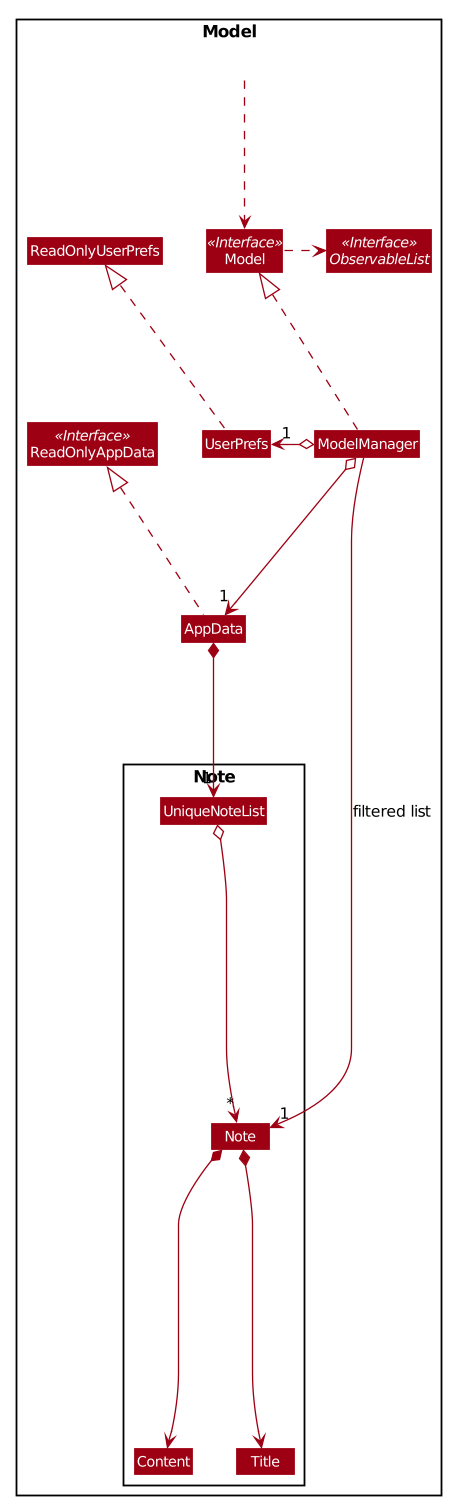
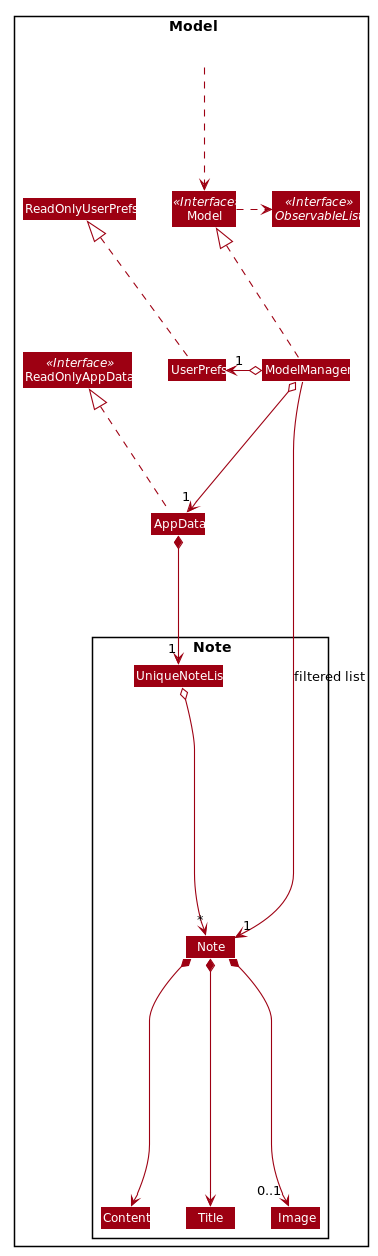
Rebuild pages at f464d8abd7f807f085d1434f8b7bf87172fbfae3

diff --git a/DeveloperGuide.html b/DeveloperGuide.html
@@ -191,12 +191,30 @@ so any data changes are immediately user-visible.</p>
 <div class="sect3">
 <h4 id="implementation-2"><a class="link" href="#implementation-2">3.1.1. Implementation</a></h4>
 <div class="paragraph">
-<p>(Implementation of image support for lecture notes)</p>
+<p>Instead of a custom class to represent an image, JavaFX&#8217;s <code>scene.image.Image</code> is used instead.
+This is out of necessity, since an <code>ImageView</code> is needed to display an image in the GUI and it requires
+an <code>Image</code> object, not just a <code>String</code> path to the image. No significant coupling is introduced
+by this choice because <code>Image</code> objects can exist without a GUI to display them.</p>
+</div>
+<div class="paragraph">
+<p>The dialog brought up to let the user choose a file returns <code>null</code> if the dialog is closed
+<em>without</em> choosing a file (i.e. clicking the close button). Treating <code>null</code> as "no image" would surprise the user who
+decides to edit a lecture note&#8217;s image but then decides not to – the image would simply disappear without
+warning. Therefore the value <code>i/none</code> has to be explicitly provided to remove the image, and <code>EditNoteDescriptor</code>
+has an additional field <code>isImageRemoved</code> to track this. If the image comes out as <code>null</code> but <code>i/none</code> was
+not provided, the image is unchanged.</p>
+</div>
+<div class="paragraph">
+<p>To avoid a dependency of the <code>Logic</code> module on the <code>UI</code> module when selecting an image, there is the interface
+<code>NoteImageSelector</code> exclusive to the <code>parser.note</code> package whose <code>selectImage</code> method provides the necessary image.
+This is possible because <code>FileChooser.showOpenDialog()</code>, which shows the dialog, can be fed an argument of <code>null</code>
+instead of having to rely on a <code>Window</code> object, which is the domain of the <code>UI</code> module.</p>
 </div>
 <div class="imageblock">
 <div class="content">
-<img src="images/UndoRedoState0.png" alt="UndoRedoState0">
+<img src="images/ImageSelectionSequenceDiagram.png" alt="ImageSelectionSequenceDiagram">
 </div>
+<div class="title">Figure 9. Sequence diagram for the execution of <code>EditNoteCommandParser</code></div>
 </div>
 </div>
 <div class="sect3">
@@ -204,7 +222,7 @@ so any data changes are immediately user-visible.</p>
 <div class="ulist">
 <ul>
 <li>
-<p><em>Alternative 1:</em> Images are shown within each lecture note in the first column, and each lecture note
+<p><em>Alternative 1 (current choice):</em> Images are shown within each lecture note in the first column, and each lecture note
 shows all of its title, content and image</p>
 <div class="ulist">
 <ul>
@@ -212,21 +230,23 @@ shows all of its title, content and image</p>
 <p>Pros: Easier to implement (FXML does not have to reach into other places)</p>
 </li>
 <li>
-<p>Cons: Scrolling through lecture notes, all with images, takes time</p>
+<p>Cons: Scrolling through lecture notes, all with images, takes time, but this downside is alleviated
+by the <code>findnote</code> command</p>
 </li>
 </ul>
 </div>
 </li>
 <li>
-<p><em>Alternative 2:</em> Place the images in the second column, below their corresponding title and content.</p>
+<p><em>Alternative 2:</em> Place the images in the second column, below their corresponding title and content</p>
 <div class="ulist">
 <ul>
 <li>
-<p>Pros: More visually appealing, and by keeping just one note in the second column it becomes a
-kind of flash card</p>
+<p>Pros: More visually appealing, since by keeping just one note in the second column it becomes a kind of flash card</p>
 </li>
 <li>
-<p>Cons: Harder to implement (FXML must reach into the object representing the second column)</p>
+<p>Cons: Harder to implement (FXML must reach into the object representing the second column),
+need to have a separate <code>NotePreview</code> JavaFX object since images are only going to be displayed
+in the second column</p>
 </li>
 </ul>
 </div>
@@ -238,7 +258,7 @@ kind of flash card</p>
 <div class="sect2">
 <h3 id="question-management-feature"><a class="link" href="#question-management-feature">3.2. Question management feature</a></h3>
 <div class="sect3">
-<h4 id="current-implementation"><a class="link" href="#current-implementation">3.2.1. Current Implementation</a></h4>
+<h4 id="current-implementation"><a class="link" href="#current-implementation">3.2.1. Current implementation</a></h4>
 <div class="paragraph">
 <p>The question management feature is facilitated by <code>Model</code>.
 The question-related commands extend <code>Command</code> with the question object if necessary.
@@ -308,15 +328,12 @@ question being replaced by the edited question.</p>
 <img src="images/AddQuestionActivityDiagram.png" alt="AddQuestionActivityDiagram">
 </div>
 </div>
-</div>
-<div class="sect3">
-<h4 id="design-considerations"><a class="link" href="#design-considerations">3.2.2. Design Considerations</a></h4>
 <div class="sect4">
-<h5 id="aspect-how-addq-deleteq-editq-commmands-execute"><a class="link" href="#aspect-how-addq-deleteq-editq-commmands-execute">Aspect: How addq/deleteq/editq commmands execute</a></h5>
+<h5 id="design-considerations-how-code-addq-code-code-deleteq-code-code-editq-code-commands-execute"><a class="link" href="#design-considerations-how-code-addq-code-code-deleteq-code-code-editq-code-commands-execute">Design considerations: How <code>addq</code>/<code>deleteq</code>/<code>editq</code> commands execute</a></h5>
 <div class="ulist">
 <ul>
 <li>
-<p><strong>Alternative 1 (current choice):</strong> Update the internal storage <code>UniqueQuestionList</code> in <code>AppData</code> first, then save the updated appData
+<p><em>Alternative 1 (current choice):</em> Update the internal storage <code>UniqueQuestionList</code> in <code>AppData</code> first, then save the updated appData
 in local storage when the command finishes executing.</p>
 <div class="ulist">
 <ul>
@@ -330,7 +347,7 @@ in local storage when the command finishes executing.</p>
 </div>
 </li>
 <li>
-<p><strong>Alternative 2:</strong> Update the local storage directly when the command is executing.</p>
+<p><em>Alternative 2:</em> Update the local storage directly when the command is executing.</p>
 <div class="ulist">
 <ul>
 <li>
@@ -346,11 +363,11 @@ in local storage when the command finishes executing.</p>
 </div>
 </div>
 <div class="sect4">
-<h5 id="aspect-data-structure-to-support-the-question-commands"><a class="link" href="#aspect-data-structure-to-support-the-question-commands">Aspect: Data structure to support the question commands</a></h5>
+<h5 id="design-considerations-data-structure-to-support-the-question-commands"><a class="link" href="#design-considerations-data-structure-to-support-the-question-commands">Design considerations: Data structure to support the question commands</a></h5>
 <div class="ulist">
 <ul>
 <li>
-<p><strong>Alternative 1 (current choice):</strong> Use a <code>UniqueQuestionList</code> to store questions in <code>AppData</code>.</p>
+<p><em>Alternative 1 (current choice):</em> Use a <code>UniqueQuestionList</code> to store questions in <code>AppData</code>.</p>
 <div class="ulist">
 <ul>
 <li>
@@ -363,7 +380,7 @@ in local storage when the command finishes executing.</p>
 </div>
 </li>
 <li>
-<p><strong>Alternative 2:</strong> Use Java list to store the questions.</p>
+<p><em>Alternative 2:</em> Use Java list to store the questions.</p>
 <div class="ulist">
 <ul>
 <li>
@@ -459,7 +476,7 @@ of the answer.</p>
 </div>
 </div>
 <div class="sect3">
-<h4 id="design-considerations-2"><a class="link" href="#design-considerations-2">3.3.2. Design Considerations</a></h4>
+<h4 id="design-considerations"><a class="link" href="#design-considerations">3.3.2. Design Considerations</a></h4>
 <div class="sect4">
 <h5 id="aspect-how-to-store-the-quiz-results"><a class="link" href="#aspect-how-to-store-the-quiz-results">Aspect: How to store the quiz results</a></h5>
 <div class="ulist">
@@ -597,7 +614,7 @@ The statistics panel will now be hidden.</p>
 </div>
 </div>
 <div class="sect3">
-<h4 id="design-considerations-3"><a class="link" href="#design-considerations-3">3.4.2. Design Considerations</a></h4>
+<h4 id="design-considerations-2"><a class="link" href="#design-considerations-2">3.4.2. Design Considerations</a></h4>
 <div class="sect4">
 <h5 id="aspect-how-statistics-are-shown"><a class="link" href="#aspect-how-statistics-are-shown">Aspect: How statistics are shown</a></h5>
 <div class="ulist">
@@ -656,7 +673,7 @@ exposed to <code>AppData#addTask(Task)</code>.</p>
 </div>
 </div>
 <div class="sect3">
-<h4 id="design-considerations-4"><a class="link" href="#design-considerations-4">3.5.2. Design considerations</a></h4>
+<h4 id="design-considerations-3"><a class="link" href="#design-considerations-3">3.5.2. Design considerations</a></h4>
 <div class="sect4">
 <h5 id="aspect-design-of-code-task-code"><a class="link" href="#aspect-design-of-code-task-code">Aspect: Design of <code>Task</code></a></h5>
 <div class="ulist">
@@ -1114,7 +1131,7 @@ compared to a typical note-taking app</p>
 <div class="ulist none">
 <ul class="none">
 <li>
-<p>1a1. Application brings up a file selection dialogue</p>
+<p>1a1. Application brings up a file selection dialog</p>
 </li>
 <li>
 <p>1a2. Student selects the image they wish to include in the lecture note</p>
@@ -1977,4 +1994,4 @@ Expected: Similar to previous.</p>
 </div>
 </div>
 </div>
-</div></div><div id="footer"><div class="container"><div id="footer-text">Last updated 2019-10-22 14:16:18 UTC</div></div></div></body></html>
+</div></div><div id="footer"><div class="container"><div id="footer-text">Last updated 2019-10-22 17:16:53 UTC</div></div></div></body></html>

diff --git a/team/PortfolioParclyTaxel.html b/team/PortfolioParclyTaxel.html
@@ -55,9 +55,6 @@ lecture notes. This helped my teammates add their own features, setting an examp
 </div>
 </li>
 <li>
-<p>Minor enhancements, enhancements to existing features: <em>fill in here</em></p>
-</li>
-<li>
 <p>I enforced a style for the user and developer guides and wrote several of their key sections,
 such as the user guide&#8217;s introduction and the developer guide&#8217;s non-functional requirements.
 See <a href="https://github.com/AY1920S1-CS2103T-F11-4/main/pull/21">#21</a> and <a href="https://github.com/AY1920S1-CS2103T-F11-4/main/pull/22">#22</a>
@@ -124,11 +121,13 @@ Format: <code>addnote t/TITLE c/CONTENT [i/]</code></p>
 <h4 id="editing-lecture-notes-code-editnote-code"><a class="link" href="#editing-lecture-notes-code-editnote-code">Editing lecture notes: <code>editnote</code></a></h4>
 <div class="paragraph">
 <p>Edits an existing lecture note. Providing <code>i/</code> brings up the image selection dialogue, like <code>addnote</code>;
-this can be used to change the image. At least one of <code>t/</code>, <code>c/</code> and <code>i/</code> must be provided.</p>
+this can be used to change the image. At least one of <code>t/</code>, <code>c/</code> and <code>i/</code> must be provided,
+or <code>i/</code> must have the argument <code>none</code> to remove the image. If the image dialogue is closed
+without selecting an image, the image remains unchanged.</p>
 </div>
 <div class="paragraph">
-<p>The index must be between 1 and the number of notes and flashcards combined, inclusive.<br>
-Format: <code>editnote INDEX [t/TITLE] [c/CONTENT] [i/]</code></p>
+<p>The index must be between 1 and the number of notes inclusive.<br>
+Format: <code>editnote INDEX [t/TITLE] [c/CONTENT] [i/[none]]</code></p>
 </div>
 </div>
 <div class="sect3">
@@ -190,12 +189,30 @@ I contributed in code and my proficiency in using diagrams to explain my work.</
 <div class="sect3">
 <h4 id="implementation"><a class="link" href="#implementation">Implementation</a></h4>
 <div class="paragraph">
-<p>(Implementation of image support for lecture notes)</p>
+<p>Instead of a custom class to represent an image, JavaFX&#8217;s <code>scene.image.Image</code> is used instead.
+This is out of necessity, since an <code>ImageView</code> is needed to display an image in the GUI and it requires
+an <code>Image</code> object, not just a <code>String</code> path to the image. No significant coupling is introduced
+by this choice because <code>Image</code> objects can exist without a GUI to display them.</p>
+</div>
+<div class="paragraph">
+<p>The dialog brought up to let the user choose a file returns <code>null</code> if the dialog is closed
+<em>without</em> choosing a file (i.e. clicking the close button). Treating <code>null</code> as "no image" would surprise the user who
+decides to edit a lecture note&#8217;s image but then decides not to – the image would simply disappear without
+warning. Therefore the value <code>i/none</code> has to be explicitly provided to remove the image, and <code>EditNoteDescriptor</code>
+has an additional field <code>isImageRemoved</code> to track this. If the image comes out as <code>null</code> but <code>i/none</code> was
+not provided, the image is unchanged.</p>
+</div>
+<div class="paragraph">
+<p>To avoid a dependency of the <code>Logic</code> module on the <code>UI</code> module when selecting an image, there is the interface
+<code>NoteImageSelector</code> exclusive to the <code>parser.note</code> package whose <code>selectImage</code> method provides the necessary image.
+This is possible because <code>FileChooser.showOpenDialog()</code>, which shows the dialog, can be fed an argument of <code>null</code>
+instead of having to rely on a <code>Window</code> object, which is the domain of the <code>UI</code> module.</p>
 </div>
 <div class="imageblock">
 <div class="content">
-<img src="../images/UndoRedoState0.png" alt="UndoRedoState0">
+<img src="../images/ImageSelectionSequenceDiagram.png" alt="ImageSelectionSequenceDiagram">
 </div>
+<div class="title">Figure 1. Sequence diagram for the execution of <code>EditNoteCommandParser</code></div>
 </div>
 </div>
 <div class="sect3">
@@ -203,7 +220,7 @@ I contributed in code and my proficiency in using diagrams to explain my work.</
 <div class="ulist">
 <ul>
 <li>
-<p><em>Alternative 1:</em> Images are shown within each lecture note in the first column, and each lecture note
+<p><em>Alternative 1 (current choice):</em> Images are shown within each lecture note in the first column, and each lecture note
 shows all of its title, content and image</p>
 <div class="ulist">
 <ul>
@@ -211,21 +228,23 @@ shows all of its title, content and image</p>
 <p>Pros: Easier to implement (FXML does not have to reach into other places)</p>
 </li>
 <li>
-<p>Cons: Scrolling through lecture notes, all with images, takes time</p>
+<p>Cons: Scrolling through lecture notes, all with images, takes time, but this downside is alleviated
+by the <code>findnote</code> command</p>
 </li>
 </ul>
 </div>
 </li>
 <li>
-<p><em>Alternative 2:</em> Place the images in the second column, below their corresponding title and content.</p>
+<p><em>Alternative 2:</em> Place the images in the second column, below their corresponding title and content</p>
 <div class="ulist">
 <ul>
 <li>
-<p>Pros: More visually appealing, and by keeping just one note in the second column it becomes a
-kind of flash card</p>
+<p>Pros: More visually appealing, since by keeping just one note in the second column it becomes a kind of flash card</p>
 </li>
 <li>
-<p>Cons: Harder to implement (FXML must reach into the object representing the second column)</p>
+<p>Cons: Harder to implement (FXML must reach into the object representing the second column),
+need to have a separate <code>NotePreview</code> JavaFX object since images are only going to be displayed
+in the second column</p>
 </li>
 </ul>
 </div>
@@ -263,7 +282,7 @@ kind of flash card</p>
 <div class="ulist none">
 <ul class="none">
 <li>
-<p>1a1. Application brings up a file selection dialogue</p>
+<p>1a1. Application brings up a file selection dialog</p>
 </li>
 <li>
 <p>1a2. Student selects the image they wish to include in the lecture note</p>
@@ -377,4 +396,4 @@ It is not quizzable.</p>
 </dl>
 </div>
 </div>
-</div></div><div id="footer"><div class="container"><div id="footer-text">Last updated 2019-10-22 14:16:18 UTC</div></div></div></body></html>
+</div></div><div id="footer"><div class="container"><div id="footer-text">Last updated 2019-10-22 17:16:53 UTC</div></div></div></body></html>

diff --git a/UserGuide.html b/UserGuide.html
@@ -104,11 +104,13 @@ Format: <code>addnote t/TITLE c/CONTENT [i/]</code></p>
 <h4 id="editing-lecture-notes-code-editnote-code"><a class="link" href="#editing-lecture-notes-code-editnote-code">3.1.2. Editing lecture notes: <code>editnote</code></a></h4>
 <div class="paragraph">
 <p>Edits an existing lecture note. Providing <code>i/</code> brings up the image selection dialogue, like <code>addnote</code>;
-this can be used to change the image. At least one of <code>t/</code>, <code>c/</code> and <code>i/</code> must be provided.</p>
+this can be used to change the image. At least one of <code>t/</code>, <code>c/</code> and <code>i/</code> must be provided,
+or <code>i/</code> must have the argument <code>none</code> to remove the image. If the image dialogue is closed
+without selecting an image, the image remains unchanged.</p>
 </div>
 <div class="paragraph">
-<p>The index must be between 1 and the number of notes and flashcards combined, inclusive.<br>
-Format: <code>editnote INDEX [t/TITLE] [c/CONTENT] [i/]</code></p>
+<p>The index must be between 1 and the number of notes inclusive.<br>
+Format: <code>editnote INDEX [t/TITLE] [c/CONTENT] [i/[none]]</code></p>
 </div>
 </div>
 <div class="sect3">
@@ -467,4 +469,4 @@ Format: <code>rndone</code></p>
 <strong>A</strong>: Install the app in the other computer and overwrite the empty data file it creates with the file that contains the data of your previous Address Book folder.</p>
 </div>
 </div>
-</div></div><div id="footer"><div class="container"><div id="footer-text">Last updated 2019-10-22 14:16:18 UTC</div></div></div></body></html>
+</div></div><div id="footer"><div class="container"><div id="footer-text">Last updated 2019-10-22 17:16:53 UTC</div></div></div></body></html>

diff --git a/Testing.html b/Testing.html
@@ -90,4 +90,4 @@ e.g. <code>seedu.address.logic.LogicManagerTest</code></p>
 <div class="title">Figure 1. <code>Accessibility</code> permission is granted to <code>IntelliJ IDEA</code></div>
 </div>
 </div>
-</div></div><div id="footer"><div class="container"><div id="footer-text">Last updated 2019-10-22 14:16:18 UTC</div></div></div></body></html>
+</div></div><div id="footer"><div class="container"><div id="footer-text">Last updated 2019-10-22 17:16:53 UTC</div></div></div></body></html>

diff --git a/DevOps.html b/DevOps.html
@@ -57,4 +57,4 @@ this project depends on the <a href="https://github.com/FasterXML/jackson">Jacks
 for JSON parsing. Managing these dependencies can be automated using Gradle.</p>
 </div>
 </div>
-</div></div><div id="footer"><div class="container"><div id="footer-text">Last updated 2019-10-22 14:16:18 UTC</div></div></div></body></html>
+</div></div><div id="footer"><div class="container"><div id="footer-text">Last updated 2019-10-22 17:16:53 UTC</div></div></div></body></html>

diff --git a/SettingUp.html b/SettingUp.html
@@ -131,4 +131,4 @@ Do not disable them. If you have disabled them, go to <code>File</code> &gt; <co
 </div>
 </div>
 </div>
-</div></div><div id="footer"><div class="container"><div id="footer-text">Last updated 2019-10-22 14:16:18 UTC</div></div></div></body></html>
+</div></div><div id="footer"><div class="container"><div id="footer-text">Last updated 2019-10-22 17:16:53 UTC</div></div></div></body></html>

diff --git a/UsingGradle.html b/UsingGradle.html
@@ -228,4 +228,4 @@ See <code>build.gradle</code> &#8594; <code>allprojects</code> &#8594; <code>dep
 </ul>
 </div>
 </div>
-</div></div><div id="footer"><div class="container"><div id="footer-text">Last updated 2019-10-22 14:16:18 UTC</div></div></div></body></html>
+</div></div><div id="footer"><div class="container"><div id="footer-text">Last updated 2019-10-22 17:16:53 UTC</div></div></div></body></html>

diff --git a/UsingNetlify.html b/UsingNetlify.html
@@ -123,4 +123,4 @@ The publish directory is the directory in which the built HTML documentation res
 </ol>
 </div>
 </div>
-</div></div><div id="footer"><div class="container"><div id="footer-text">Last updated 2019-10-22 14:16:18 UTC</div></div></div></body></html>
+</div></div><div id="footer"><div class="container"><div id="footer-text">Last updated 2019-10-22 17:16:53 UTC</div></div></div></body></html>

diff --git a/AboutUs.html b/AboutUs.html
@@ -94,4 +94,4 @@ Responsibilities: Implementing <code>Question</code> module and the test feature
 <hr>
 </div>
 </div>
-</div></div><div id="footer"><div class="container"><div id="footer-text">Last updated 2019-10-22 14:16:18 UTC</div></div></div></body></html>
+</div></div><div id="footer"><div class="container"><div id="footer-text">Last updated 2019-10-22 17:16:53 UTC</div></div></div></body></html>

diff --git a/Documentation.html b/Documentation.html
@@ -223,4 +223,4 @@ The SE-EDU team does not provide support for modified template files.</p>
 </table>
 </div>
 </div>
-</div></div><div id="footer"><div class="container"><div id="footer-text">Last updated 2019-10-22 14:16:18 UTC</div></div></div></body></html>
+</div></div><div id="footer"><div class="container"><div id="footer-text">Last updated 2019-10-22 17:16:53 UTC</div></div></div></body></html>

diff --git a/UsingTravis.html b/UsingTravis.html
@@ -271,4 +271,4 @@ Suggested change: Remove the codacy badge from <code>README</code>.</p>
 </div>
 </div>
 </div>
-</div></div><div id="footer"><div class="container"><div id="footer-text">Last updated 2019-10-22 14:16:18 UTC</div></div></div></body></html>
+</div></div><div id="footer"><div class="container"><div id="footer-text">Last updated 2019-10-22 17:16:53 UTC</div></div></div></body></html>

diff --git a/UsingPlantUml.html b/UsingPlantUml.html
@@ -337,4 +337,4 @@ Explicitly define all symbols to avoid any potential layout mishaps.
 </div>
 </div>
 </div>
-</div></div><div id="footer"><div class="container"><div id="footer-text">Last updated 2019-10-22 14:16:18 UTC</div></div></div></body></html>
+</div></div><div id="footer"><div class="container"><div id="footer-text">Last updated 2019-10-22 17:16:53 UTC</div></div></div></body></html>
